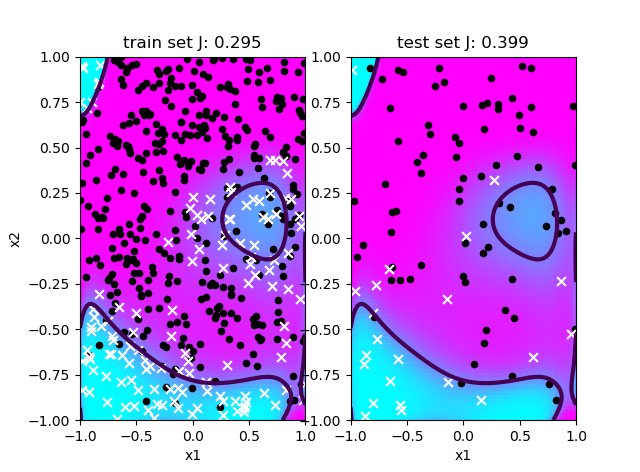
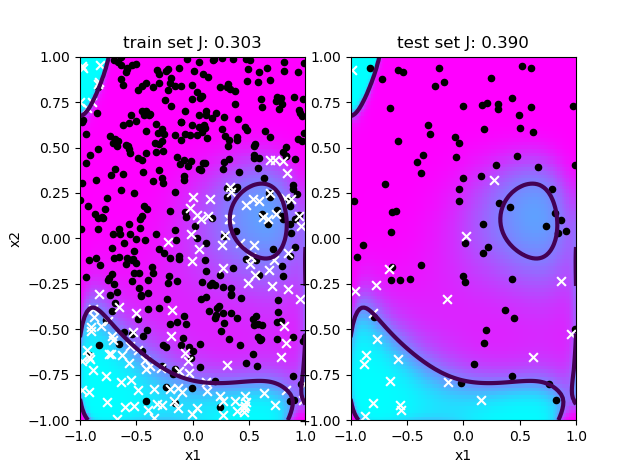
update the answer 2.2.3.2

diff --git a/paper/paper.tex b/paper/paper.tex
@@ -122,13 +122,13 @@ When learning rate is too low, it takes a lot of time to reach the local minima 
 
 \subsubsection{Adaptative gradient descent (GDad)}
 \paragraph
-1 The following plots demonstrate the results of Logistic Regression with iterations = 2000, learning rate $\eta$ = 1 and varying degrees $l$ = \{1, 2, 5, 15\}:
+1 The following plots demonstrate the results of Logistic Regression with iterations = 1000, learning rate $\eta$ = 1 and varying degrees $l$ = \{1, 2, 5, 15\}:
 
 \begin{figure}[h]	
 	\includegraphics[width=0.4	\textwidth]{logreg_deg1_iter20000.png}
 	\includegraphics[width=0.4\textwidth]{logreg_deg1_iter20000_learn.png}
 	\includegraphics[width=0.4\textwidth]{logreg_deg1_iter20000_error.png}
-	\textbf{final learning rate : 3.25$e$\textsuperscript{-287}}
+	\textbf{final learning rate : 2.59$e$\textsuperscript{-132}}
 	\caption{degree $l$ = 1}
 \end{figure}
 	\begin{figure}[h]	
@@ -142,19 +142,19 @@ When learning rate is too low, it takes a lot of time to reach the local minima 
 	\includegraphics[width=0.4\textwidth]{logreg_deg5_iter2000.png}
 	\includegraphics[width=0.4\textwidth]{logreg_deg5_iter2000_learn.png}
 	\includegraphics[width=0.4\textwidth]{logreg_deg5_iter2000_error.png}
-	\textbf{final learning rate : 15.3}
+	\textbf{final learning rate : 12.5}
 	\caption{degree $l$ = 5}
 \end{figure}
 \begin{figure}[h]	
 	\includegraphics[width=0.4\textwidth]{logreg_deg15_iter2000.png}
 	\includegraphics[width=0.4\textwidth]{logreg_deg15_iter2000_learn.png}
 	\includegraphics[width=0.4\textwidth]{logreg_deg15_iter2000_error.png}
-	\textbf{final learning rate : 10.4}
+	\textbf{final learning rate : 12.5}
 	\caption{degree $l$ = 15}
 \end{figure}
 \clearpage
 \paragraph
-2  These are the comparsion between GDad and non-adpative GD.
+2  These are the comparsion between GDad and non-adpative GD.\\
 \textbf{Degree $l$ = 1 :}\\
 Speed : GDad reaches near the local minima faster than non-adaptive gradient.\\
 Train set error : Both have the same train error(0.469).\\
@@ -167,13 +167,13 @@ Test set error : Both have the same test error(0.354).\\
 \\
 \textbf{Degree $l$ = 5 :}\\
 Spped : GDad reaches near the local minima faster than non-adaptive gradient.\\
-Train set error : GDad have smaller train error(0.308) than non-adaptive GD(0.336).\\
-Test set error : GDad have bigger test error(0.359) than non-adaptive GD(0.328).\\
+Train set error : GDad have smaller train error(0.315) than non-adaptive GD(0.349).\\
+Test set error : GDad have bigger test error(0.353) than non-adaptive GD(0.323).\\
 \\
 \textbf{Degree $l$ = 15 :}\\
 Spped : GDad reaches near the local minima faster than non-adaptive gradient.\\
-Train set error : GDad have smaller train error(0.209) than non-adaptive GD(0.323).\\
-Test set error : GDad have bigger test error(0.399) than non-adaptive GD(0.357).\\
+Train set error : GDad have smaller train error(0.303) than non-adaptive GD(0.333).\\
+Test set error : GDad have bigger test error(0.390) than non-adaptive GD(0.342).\\
 \\
 \\
 The evolution of the learning rate is something different from my previous guess of the optimal learning rate. I thought that the evolution of the learning rate looks like a mountain. It is true in the case of degree 1 and 2. However, in the case of degree 5 and 15, the graph vibrates at the latter part because of the overshooting problem.
@@ -183,6 +183,43 @@ GDad is more useful than non-adaptive gradient descent in the respect of the spe
 First, GDad can reach the local minima faster than non-adaptive gradient descent. When the learning rate is small, gradient descent should iterate more than GDad to reach the local minima. Because, in the case of GDad, the learning rate becomes large when the cost becomes small and can make a big step to the local minima.\\
 Second, GDad can avoid the overshooting problem. When the learning rate is big, it can suffer from overshooting problem because the process makes a big step, roams near the local minima and can not reach the local minima. In this case, the costs becomes large and GDad notices that it is in overshooting problem. Then, it can avoid overshooting problem by decreasing the learning rate and reach the local minima. \\
 That is, at fist, GDad makes big steps to find the the local minima. Then, when it reaches near the local minima, it decreases the learning rate to avoid the overshooting problem and reachs the local minima.
-   
+
+
+\subsubsection{Scipy optimizer}
+\paragraph
+1 The following plots demonstrate the results of Logistic Regression using scipy.optimize, with iterations = 1000, learning rate $\eta$ = 1 and varying degrees $l$ = \{1, 2, 5, 15\}:
+\begin{figure}[h]	
+	\includegraphics[width=0.4\textwidth]{scipy_1.png}
+	\caption{degree $l$ = 1}
+	\includegraphics[width=0.4\textwidth]{scipy_2.png}
+	\caption{degree $l$ = 2}
+	\includegraphics[width=0.4\textwidth]{scipy_5.png}
+	\caption{degree $l$ = 5}
+	\includegraphics[width=0.4\textwidth]{scipy_15.png}
+	\caption{degree $l$ = 15}
+\end{figure}
+\clearpage
+
+\paragraph
+2 These are the comparsion between GDad, non-adpative GD and scipy optimizer.\\
+\textbf{Degree $l$ = 1 :}\\
+Train set error : All have the same train error(0.469).\\
+Test set error : All have the same test error(0.387).\\
+\\ 
+\textbf{Degree $l$ = 2 :}\\
+Train set error : All have the same train error(0.450).\\
+Test set error : All have the same test error(0.354).\\
+\\
+\textbf{Degree $l$ = 5 :}\\
+Train set error : Scipy optimizer(0.295) $<$ GDad (0.315) $<$ GD(0.349).\\
+Test set error : Scipy optimizer(0.417) $>$ GDad(0.353) $>$ GD(0.323).\\
+\\
+\textbf{Degree $l$ = 15 :}\\
+Train set error : Scipy optimizer(0.210) $<$ GDad(0.303) $<$ GD(0.333).\\
+Test set error : Scipy optimizer(1.649) $<$ GDad (0.390) $<$ non-adaptive GD(0.342).\\
+\\
+Scipy optimizer optimizes the cost function better than the others. Therefore it has the lowest train set errors in all degrees. However, it has the highest test set error in all degrees. I think it is becuase of overfitting to the train set. Scipy optimizer makes a hypothesis fit perfectly to train set so it causes overfitting problem and get the highest test set error.\\
+\\
+It doesn't change my opinion that degree $l$ = 5 is best to fit the data. Low degree can not predict the complex hypothesis and high degree can cause the overfitting problem. Therfore, appropriate degree is the best. In this problem, it is 5. 
 
 \end{document}
